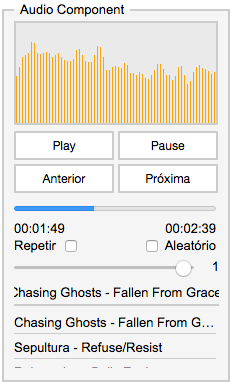
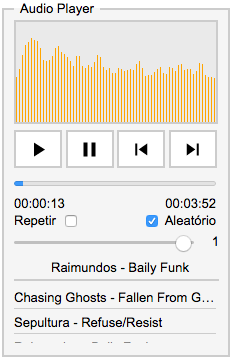
Added new files, README updated and new printscreen

diff --git a/src/component/template.js b/src/component/template.js
@@ -1,0 +1,47 @@
+import style from './style.js'
+
+export default `
+<style>${style}</style>
+<fieldset>
+  <legend>{{$ctrl.title}}</legend>
+  <canvas id="analyser"></canvas>
+  <div id="controls">
+    <button type="button" ng-click="$ctrl.play()">
+      <svg xmlns="http://www.w3.org/2000/svg" xmlns:xlink="http://www.w3.org/1999/xlink" version="1.1" width="24" height="24" viewBox="0 0 24 24"><path d="M8,5.14V19.14L19,12.14L8,5.14Z" /></svg>
+    </button>
+    <button type="button" ng-click="$ctrl.pause()">
+      <svg xmlns="http://www.w3.org/2000/svg" xmlns:xlink="http://www.w3.org/1999/xlink" version="1.1" width="24" height="24" viewBox="0 0 24 24"><path d="M14,19H18V5H14M6,19H10V5H6V19Z" /></svg>
+    </button>
+    <button type="button" ng-click="$ctrl.prev()">
+      <svg xmlns="http://www.w3.org/2000/svg" xmlns:xlink="http://www.w3.org/1999/xlink" version="1.1" width="24" height="24" viewBox="0 0 24 24"><path d="M6,18V6H8V18H6M9.5,12L18,6V18L9.5,12Z" /></svg>
+    </button>
+    <button type="button" ng-click="$ctrl.next()">
+      <svg xmlns="http://www.w3.org/2000/svg" xmlns:xlink="http://www.w3.org/1999/xlink" version="1.1" width="24" height="24" viewBox="0 0 24 24"><path d="M16,18H18V6H16M6,18L14.5,12L6,6V18Z" /></svg>
+    </button>
+    <progress value="{{$ctrl.percentage}}" max="100">{{$ctrl.percentage}} %</progress>
+    <div id="time">
+      <span ng-bind="$ctrl.time"></span>
+      <span ng-bind="$ctrl.timeLeft"></span>
+    </div>
+    <div id="options">
+      <label>
+        Repetir
+        <input type="checkbox" name="loop" ng-model="$ctrl.options.loop" ng-checked="$ctrl.options.loop" ng-change="$ctrl.changeLoop()">
+      </label>
+      <label>
+        <input type="checkbox" name="random" ng-model="$ctrl.options.random" ng-checked="$ctrl.options.random">
+        Aleatório
+      </label>
+    </div>
+    <input type="range" ng-change="$ctrl.changeVolume()" ng-model="$ctrl.volume" min="0.0" max="1" step="0.1" ng-value="$ctrl.volume">
+    <span id="volume">{{$ctrl.volume}}</span>
+  </div>
+  <div id="current">
+    <marquee scrolldelay="200">{{$ctrl.song}}</marquee>
+  </div>
+  <ul id="list">
+    <li ng-repeat="m in $ctrl.musics" ng-click="$ctrl.setMusic($index)">
+      <a>{{m.artist}} - {{m.title}}</a>
+    </li>
+  </ul>
+</fieldset>`

diff --git a/src/component/style.js b/src/component/style.js
@@ -1,0 +1,86 @@
+export default `
+audio-player {
+  font-family: Arial, Helvetica, sans-serif;
+  font-size: 13px;
+}
+audio-player fieldset {
+  width: 205px;
+  padding: 4px 9px 12px 10px;
+  background-color: #f5f5f5;
+  border: 2px solid #ccc;
+}
+audio-player legend {
+  padding: 0 6px;
+}
+audio-player canvas {
+  width: 200px;
+  height: 100px;
+  background-color: #eaeaea;
+  border: 2px solid #ccc;
+}
+audio-player #controls {
+  margin-top: 6px;
+}
+audio-player #controls button {
+  margin: 0 0 4px;
+  padding: 4px 0;
+  width: 48px;
+  font-size: 12px;
+  background-color: #fff;
+  border: 2px solid #ccc;
+}
+audio-player #controls #time,
+audio-player #controls #options {
+  width: 202px;
+}
+audio-player #controls #time span:last-child,
+audio-player #controls #options label:last-child {
+  text-align: right;
+  float: right;
+}
+audio-player #controls progress {
+  width: 202px;
+  margin: 5px 0;
+}
+audio-player #controls #volume {
+  margin: 4px 0;
+  width: 20px;
+  float: right;
+  text-align: right;
+}
+audio-player #controls input[type="range"] {
+  margin: 2px 0;
+  width: 180px;
+}
+audio-player #current {
+  margin: 0 0 2px 0;
+  padding: 4px 0;
+  border-bottom: 2px solid #ccc;
+}
+audio-player #current input[type="text"] {
+  width: 202px;
+  background-color: transparent;
+  border: 0;
+}
+audio-player #list {
+  margin: 0;
+  padding: 0;
+  width: 202px;
+  max-height: 60px;
+  overflow-y: scroll;
+  list-style: none;
+}
+
+audio-player #list li {
+  margin: 3px 0;
+  padding: 3px 0;
+  cursor: pointer;
+  white-space: nowrap;
+  overflow-x: hidden;
+  text-overflow: ellipsis;
+  border-bottom: 1px solid #ccc;
+}
+audio-player #list li:last-child {
+  border-bottom: 0;
+}
+`

diff --git a/README.md b/README.md
@@ -20,11 +20,10 @@ npm i angular-audio-player-html5-es6
 <head>
   <meta charset="utf-8">
   <title>Angular Audio Player Component - HTML5/ES6</title>
-  <link rel="stylesheet" href="src/component/style.css">
 </head>
 <body data-ng-controller="AppController as ctrl">
   <!-- Component Audio Player -->
-  <audio-player options="ctrl.options" musics="ctrl.list"></audio-player>
+  <audio-player title="Audio Player" options="ctrl.options" musics="ctrl.list"></audio-player>
   <!-- /Component Audio Player -->
   <script src="https://ajax.googleapis.com/ajax/libs/angularjs/1.5.6/angular.min.js"></script>
   <script src="dist/bundle.min.js"></script>
@@ -40,7 +39,6 @@ angular
   .controller('AppController', ['$scope', function ($scope) {
     var ctrl = this;
     ctrl.options = {
-      title: 'Audio Component',
       autoplay: true,
       loop: false,
       random: true,
@@ -82,6 +80,7 @@ Version | Description
 1.0.0 | Upping Angular Audio Player Component
 2.0.0 | Config changed in component and code improvements
 2.1.0 | Added elapsed and remaining time
+2.2.0 | Config changed and imports HTML, CSS files
 
 ## Developer
 
